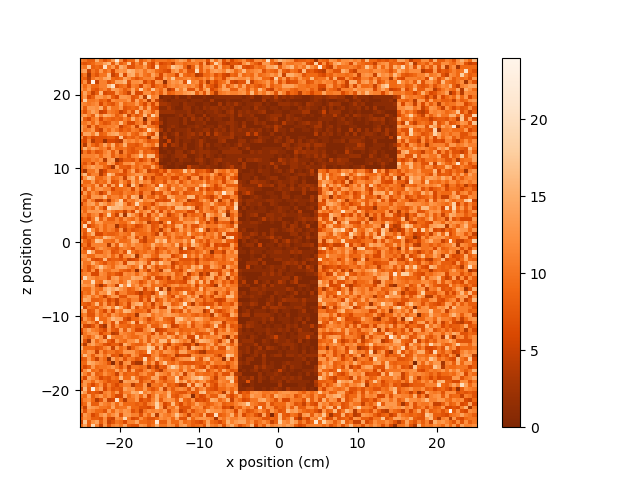
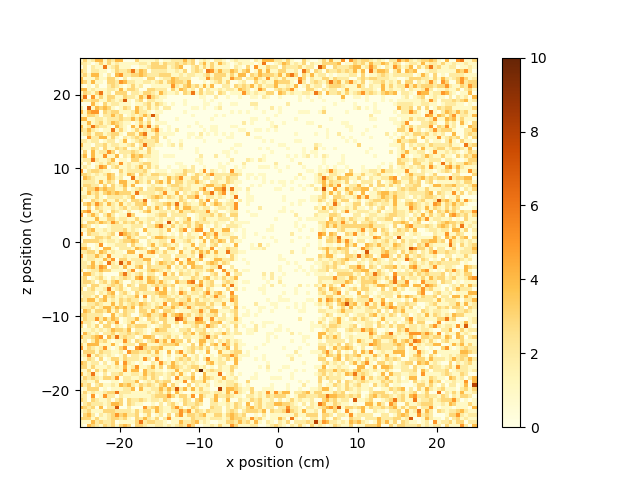
add images

diff --git a/assignment7/src/gunmessenger.cpp b/assignment7/src/gunmessenger.cpp
@@ -10,7 +10,7 @@ namespace ne697 {
     m_directory = new G4UIdirectory("/ne697/gun/");
     m_directory->SetGuidance("Change offset of the particle gun.");
 
-    // Set detector thickness: /ne697/geometry/det_thickness
+    // Set gun offset: /ne697/gun/offset
     m_gunOffsetCmd = new G4UIcmdWithADoubleAndUnit("/ne697/gun/offset", this);
     m_gunOffsetCmd->SetGuidance("Set the offset of the particle gun from the 'T'.");
     m_gunOffsetCmd->SetParameterName("offset", true);
@@ -25,7 +25,15 @@ namespace ne697 {
 
   void GunMessenger::SetNewValue(G4UIcommand* cmd, G4String val) {
     if (cmd == m_gunOffsetCmd) {
+
       auto parsed_val = m_gunOffsetCmd->GetNewDoubleValue(val);
+      
+      //error if negative offset
+      if (parsed_val < 0) {
+      G4cerr << "Gun offset cannot be negative! Offset not applied." << G4endl;
+      return;
+      }
+      
       m_pga_gun->set_gun_offset(parsed_val);
       G4cout << "Gun offset set to " << G4BestUnit(parsed_val, "Length")
         << G4endl;

diff --git a/assignment7/assignment7.py b/assignment7/assignment7.py
@@ -1,0 +1,21 @@
+import matplotlib.pyplot as plt
+import numpy as np
+import csv
+
+x=np.array([])
+z=np.array([])
+eventID = -1
+
+with open("../build/run5_hits.csv", newline='') as csv_file:
+    csv_reader = csv.DictReader(csv_file)
+    for row in csv_reader:
+        if(row['eventID']!=eventID):
+            x = np.append(x, float(row['x[cm]']))
+            z = np.append(z, float(row['z[cm]']))
+            eventID = row['eventID']
+
+plt.hist2d(x, z, bins=100, cmap = 'YlOrBr')
+plt.xlabel("x position (cm)")
+plt.ylabel("z position (cm)")
+plt.colorbar()
+plt.show()

diff --git a/assignment7/src/geometrymessenger.cpp b/assignment7/src/geometrymessenger.cpp
@@ -34,6 +34,13 @@ namespace ne697 {
   void GeometryMessenger::SetNewValue(G4UIcommand* cmd, G4String val) {
     if (cmd == m_detThicknessCmd) {
       auto parsed_val = m_detThicknessCmd->GetNewDoubleValue(val);
+
+      //error if negative thickness
+      if (parsed_val < 0) {
+      G4cerr << "Detector thickness cannot be negative! Given thickness not applied." << G4endl;
+      return;
+      }
+      
       m_dc->set_det_thickness(parsed_val);
       G4cout << "Detector thickness set to " << G4BestUnit(parsed_val, "Length")
         << G4endl;

diff --git a/assignment7/src/materialmessenger.cpp b/assignment7/src/materialmessenger.cpp
@@ -11,7 +11,7 @@ namespace ne697 {
     m_directory->SetGuidance("Change material.");
 
     // Set detector material: /ne697/geometry/det_thickness
-    m_detMaterialCmd = new G4UIcmdWithAString("/ne697/geometry/det_material", this);
+    m_detMaterialCmd = new G4UIcmdWithAString("/ne697/material/det_material", this);
     m_detMaterialCmd->SetGuidance("Set the detector material.");
     m_detMaterialCmd->SetParameterName("material", true);
     m_detMaterialCmd->SetDefaultValue(m_dc->get_det_material());
